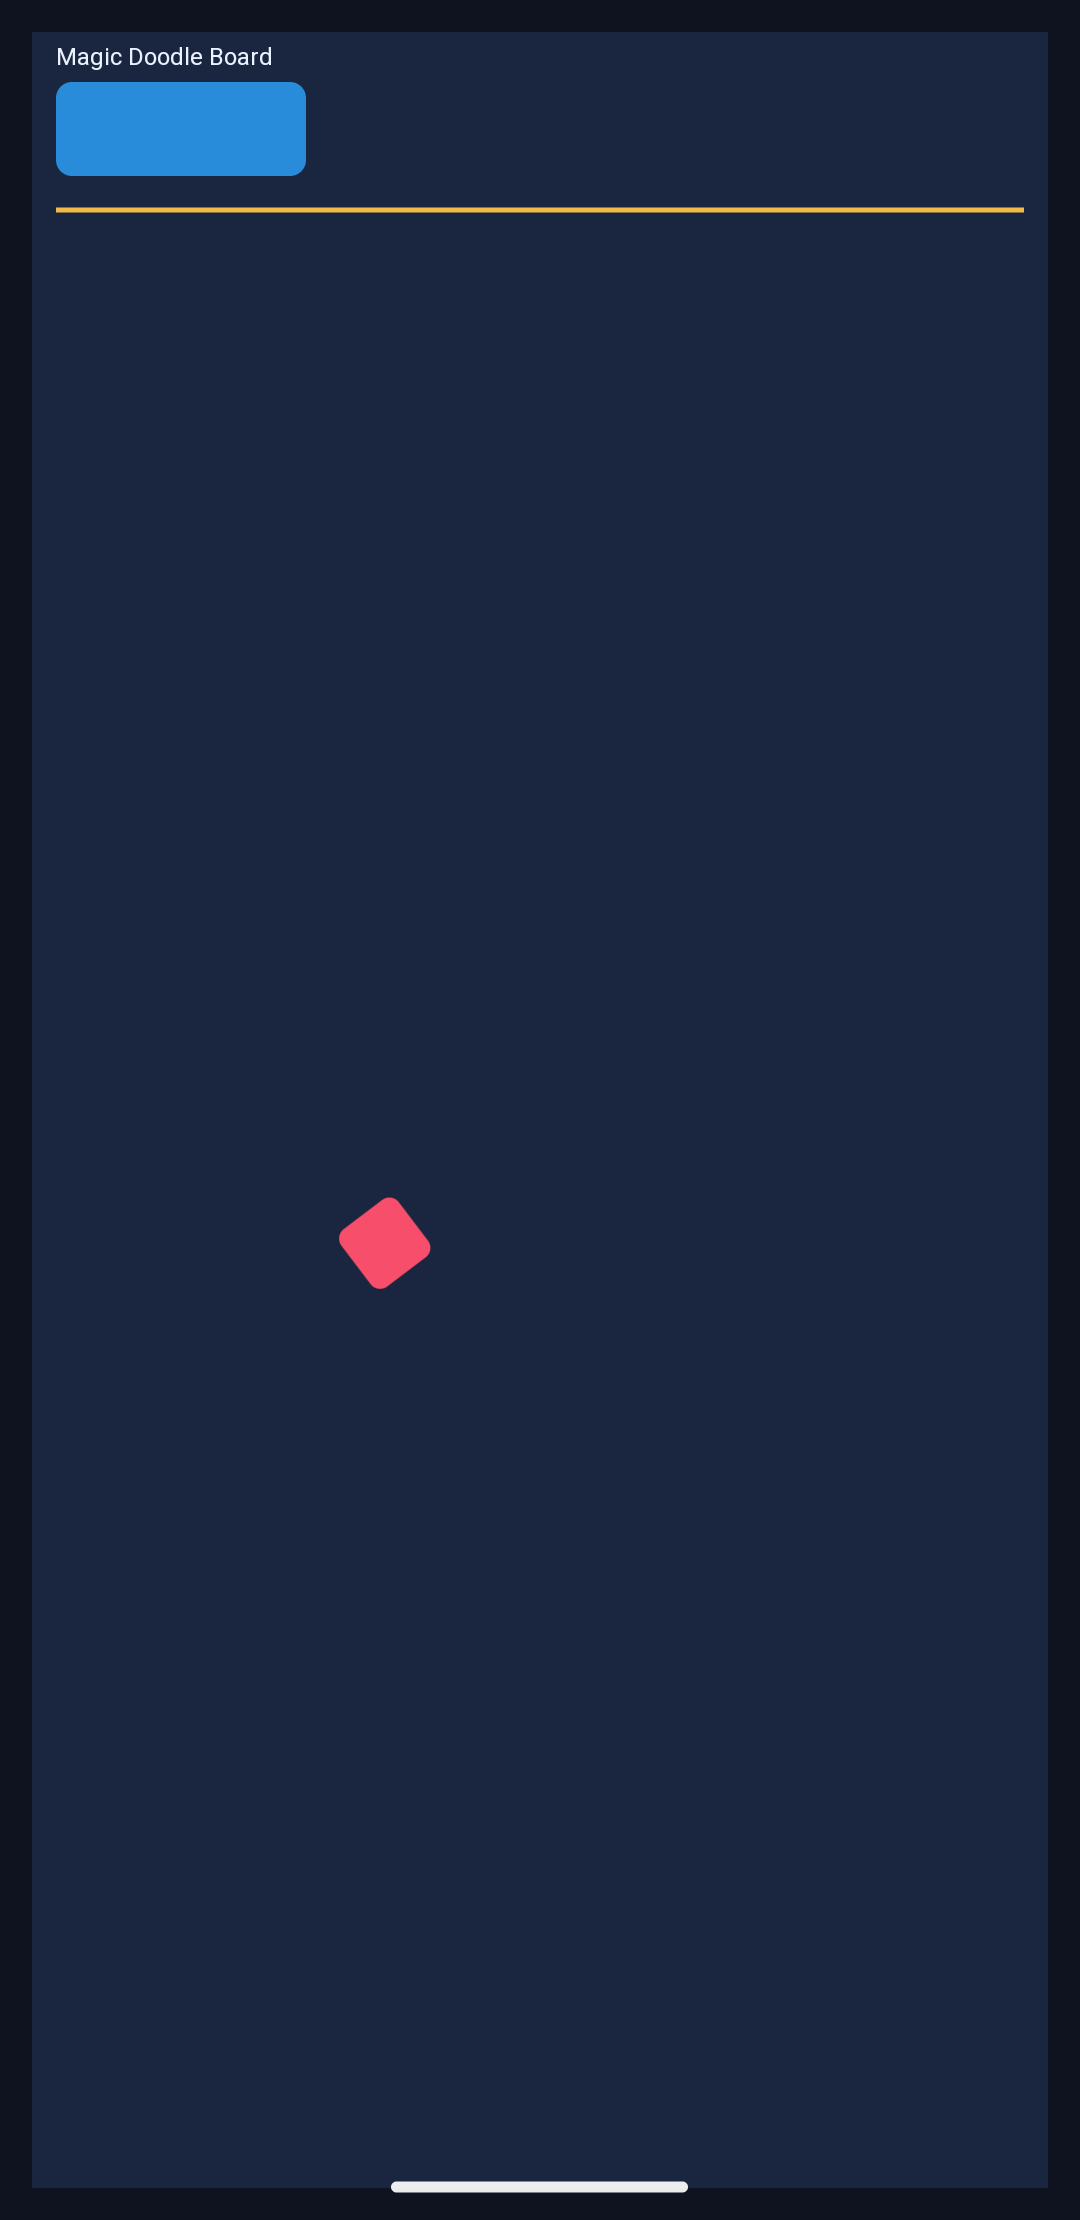
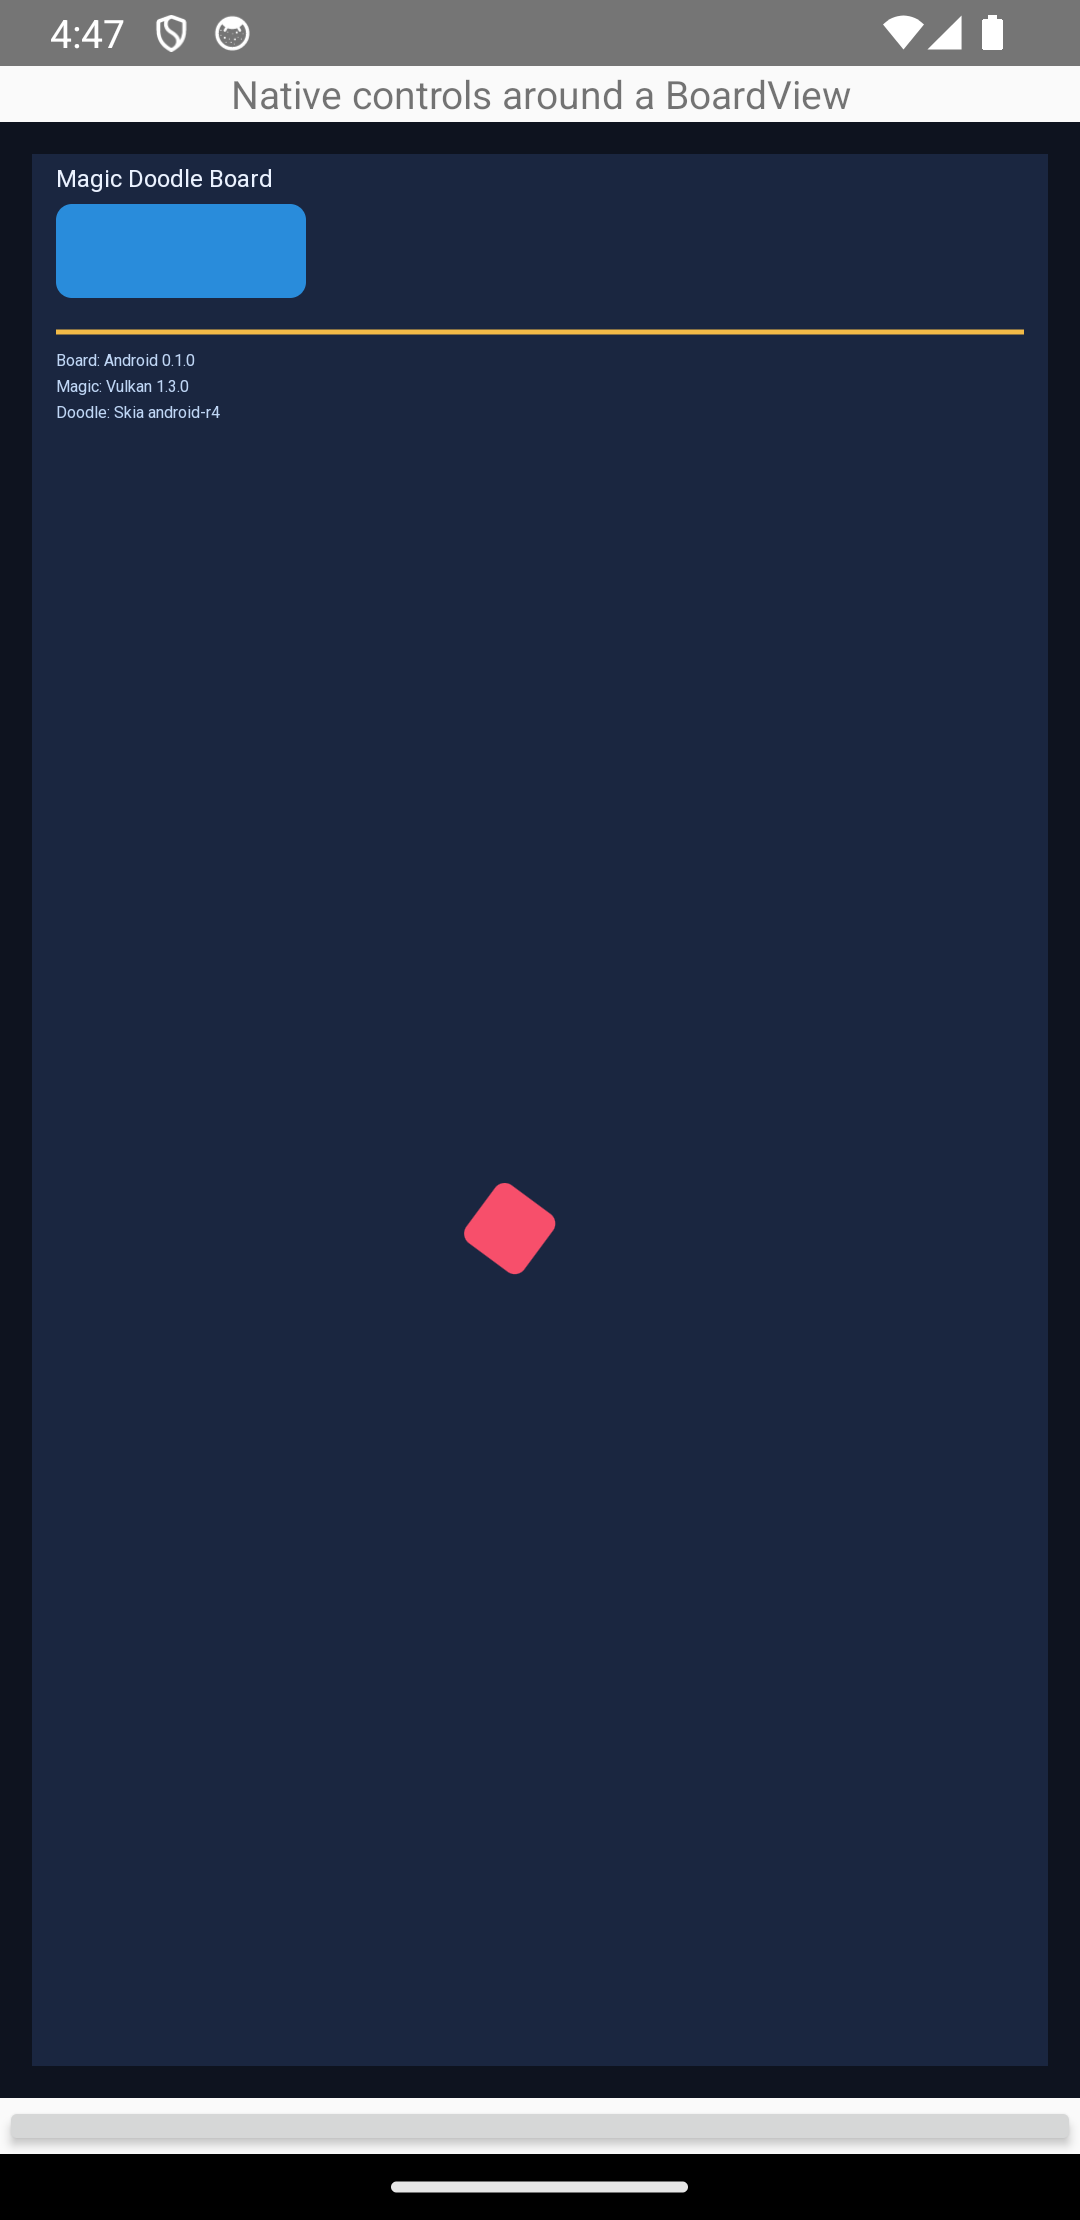
docs: record matrix artifact conventions
Update ExecPlan guidance to require deterministic matrix output paths and separately preserved build variants.\n\nCommit refreshed Android and iOS simulator captures with the Web smoke artifact manifest, and reconcile the active plan with the observed evidence.

diff --git a/plans/convert-to-magic-doodle-board.md b/plans/convert-to-magic-doodle-board.md
@@ -512,7 +512,7 @@ The focused provider-stub validation was observed with:
 
 That run reported 8 of 8 tests passed, including `mdb_public_headers_c`, `mdb_public_headers_cpp`, `mdb_boundaries`, `mdb_configuration`, `board_headless`, `magic_cpu`, `doodle_provider`, and `doodle_provider_stubs`. A subsequent focused run reported 3 of 3 passed for `mdb_boundaries`, `mdb_configuration`, and `doodle_provider_stubs`.
 
-The recorded Web smoke run served the demo over HTTP in Safari for eight seconds. `artifacts/final/web-skia-artifacts.txt` records 811 bytes for the HTML, 382317 bytes for JavaScript, 4818383 bytes for WebAssembly, and 35408 bytes for the data file. These are generated artifact sizes from that run, not performance measurements. No meaningful frame-time, memory, binary-size comparison, or rendering-performance benchmark has been taken.
+The recorded Web smoke run served the demo over HTTP in Safari for eight seconds. `artifacts/final/web-skia-artifacts.txt` now records 811 bytes for the HTML, 384440 bytes for JavaScript, 4822912 bytes for WebAssembly, and 35408 bytes for the data file. These are generated artifact sizes from that refreshed run, not performance measurements. No meaningful frame-time, memory, binary-size comparison, or rendering-performance benchmark has been taken.
 
 With `VULKAN_SDK=/Users/flsobral/Library/VulkanSDK/1.4.350.1/macOS`, `VK_ICD_FILENAMES` set to the SDK MoltenVK JSON, and `VK_INSTANCE_LAYERS=VK_LAYER_KHRONOS_validation`, the corrected `scripts/test-desktop-vulkan-skia.sh` configured and built a fresh matrix directory, printed `Board: SDL3 3.4.12 | Magic: Vulkan 1.1.334 | Doodle: Skia 158dc9d7-r5`, and completed the three-frame demo without a validation error. `vulkan-validation.log` was empty, and a separate root CTest run reported 10 of 10 tests passed. Standalone Board, Magic, and Doodle Vulkan builds each reported all of their focused tests passed, and the installed consumer linked and exited 0. These are macOS observations only.
 
@@ -1414,3 +1414,5 @@ GLFW, winit, Blend2D, NanoVG, and Vello remain explicit stubs at the start of th
 2026-07-15: Incorporated the mandatory in-progress `Editorial Report` required by `.agent/PLANS.md`. The report synthesizes only recorded implementation, commit, test, artifact, and validation evidence; it identifies remaining work and claims needing human review, and Progress now requires final reconciliation before this ExecPlan can be completed.
 
 2026-07-15: Revised the in-progress plan after Vulkan SDK 1.4.350.1 and the TotalCross Skia r5 macOS archive made desktop Vulkan testable. The revision records the SDL3 + Magic + Doodle implementation, the macOS-only validation-layer result, its named matrix script, standalone package evidence, and the remaining Windows/Linux runner requirement.
+
[phone redacted]: Revised the in-progress plan after refreshed Android OpenGL/Vulkan and iOS Metal captures plus a refreshed Web artifact manifest were recorded. The revision also records the normalized matrix output convention, which preserves each platform and backend combination under `build/<platform>/<board>-<magic>-<renderer>`.

diff --git a/.agent/PLANS.md b/.agent/PLANS.md
@@ -57,6 +57,8 @@ Validation is not optional. Include instructions to run tests, start the system 
 
 Capture evidence. When steps produce terminal output, short diffs, logs, benchmarks, screenshots, generated files, or other evidence, include concise examples in the plan. Prefer small excerpts that prove success over large output dumps.
 
+When an ExecPlan defines a build matrix, specify one deterministic output-path convention that encodes the platform and selected implementations. Record the exact paths for generated executables, packages, or application artifacts, and ensure matrix scripts preserve separately built variants instead of overwriting a shared output name. Treat a build-only aggregate command as compilation evidence only; keep launch, installation, and visual smoke checks explicit and separate.
+
 Capture editorial evidence as the work proceeds. When a discovery changes the implementation, a rejected alternative clarifies a trade-off, a benchmark produces a meaningful result, or an unexpected failure leads to a useful lesson, record it immediately in the living sections. The final `Editorial Report` should synthesize those records rather than reconstructing the project from memory at the end.
 
 ## Milestones